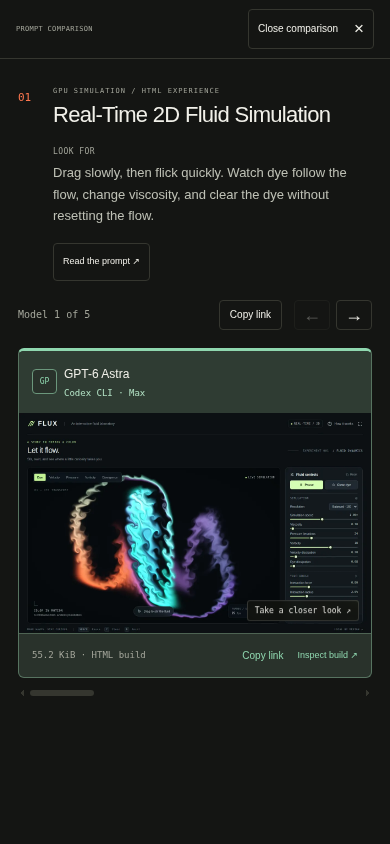
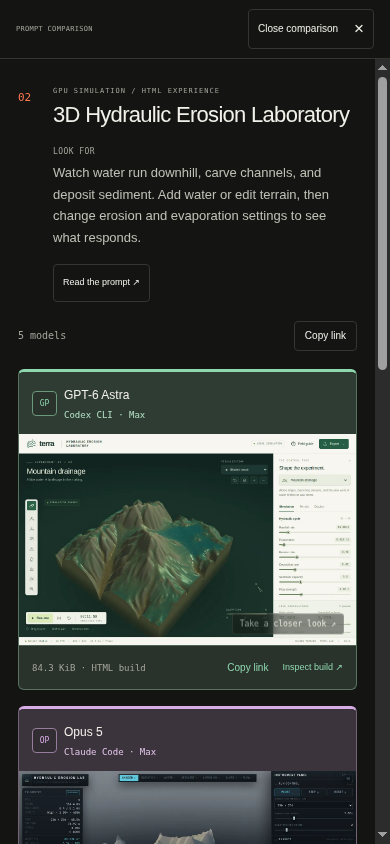
Show expanded comparisons as a wrapping model grid

diff --git a/gallery/static/app.js b/gallery/static/app.js
@@ -231,16 +231,15 @@
     if(!$('#category-viewer').open)return;
     const runs=(state.categoryAllModels?state.data.results:matchingRuns()).filter(row=>groupKey(row)===state.categoryTask);
     if(!runs.length){closeCategory();return;}
-    const previous=$('#category-content .prompt-group');const index=previous?comparisonPosition(previous).first:0;
+    const scrollTop=$('#category-content').scrollTop;
     $('#category-content').innerHTML=promptGroup(state.categoryTask,runs,true,state.categoryAllModels);
-    positionComparison($('#category-content .prompt-group'),index);
+    updateComparison($('#category-content .prompt-group'));$('#category-content').scrollTop=scrollTop;
   }
   function openCategory(key,trigger=null,allModels=false,updateUrl=true) {
     const runs=(allModels?state.data.results:matchingRuns()).filter(row=>groupKey(row)===key);if(!runs.length)return;
-    const index=trigger?comparisonPosition(trigger.closest('.prompt-group')).first:0;
     state.categoryTask=key;state.categoryTrigger=trigger;state.categoryAllModels=allModels;
     $('#category-content').innerHTML=promptGroup(key,runs,true,allModels);
-    $('#category-viewer').showModal();positionComparison($('#category-content .prompt-group'),index);
+    $('#category-viewer').showModal();$('#category-content').scrollTop=0;updateComparison($('#category-content .prompt-group'));
     if(updateUrl&&state.data.catalog.some(task=>task.id===key)&&location.hash!==comparisonHash(key))try{history.pushState(null,'',comparisonHash(key));}catch{ /* Copy link remains available in embedded browsers. */ }
     $('#close-category').focus();
   }
@@ -499,7 +498,7 @@
   $('#prompt-dialog').addEventListener('close',()=>{state.promptToken++;});
   $('#copy-prompt').addEventListener('click',copyPrompt);
   document.addEventListener('keydown',event=>{
-    if(event.target.matches('.group-builds')&&['ArrowLeft','ArrowRight','Home','End'].includes(event.key)){
+    if(event.target.matches('#cards .group-builds')&&['ArrowLeft','ArrowRight','Home','End'].includes(event.key)){
       event.preventDefault();const group=event.target.closest('.prompt-group');
       if(event.key==='Home'||event.key==='End')positionComparison(group,event.key==='Home'?0:Infinity);
       else shiftComparison(group,event.key==='ArrowRight'?1:-1);

diff --git a/gallery/static/styles.css b/gallery/static/styles.css
@@ -151,13 +151,16 @@ body[data-section="why"] .hero-copy>p{max-width:640px}
 .category-viewer{inset:0;margin:0;width:100vw;height:100dvh;max-width:none;max-height:none;padding:0;border:0;border-radius:0;overflow:hidden}.category-viewer[open]{display:flex;flex-direction:column}
 .category-bar{display:flex;justify-content:space-between;align-items:center;gap:14px;padding:10px 24px;border-bottom:1px solid var(--line);flex-shrink:0}.category-bar .button{font-size:11px;white-space:nowrap}.category-bar .button span{font-size:17px;margin-left:8px}
 .category-content{flex:1;min-height:0;overflow:auto;padding:0 clamp(18px,3vw,48px) 26px}.category-content .prompt-group{margin:0}.category-content .prompt-header{border-top:0;padding-top:28px}.category-content .prompt-header h3{font-size:clamp(22px,2.2vw,34px)}.category-content .prompt-guide{font-size:13px}.category-content .comparison-toolbar{margin-bottom:14px}
+.category-content .group-builds{grid-template-columns:repeat(3,minmax(0,1fr));grid-auto-flow:row;grid-auto-columns:auto;align-items:start;overflow:visible;scroll-snap-type:none}
 .brand{font-size:25px;min-width:0;flex-shrink:1}.brand>span{min-width:0}.brand-mark{flex-shrink:0}.brand-title{line-height:1.15}
 @media(max-width:1100px){
   .group-builds{--visible-models:min(var(--columns,1),2)}
+  .category-content .group-builds{grid-template-columns:repeat(2,minmax(0,1fr))}
   .masthead-inner{flex-wrap:wrap;padding-top:18px;gap:0}.masthead nav{order:3;width:100%;margin:12px 0 0;height:47px;justify-content:space-between}.repo-link{order:2;margin-left:auto}.brand{margin-right:16px}
 }
 @media(max-width:580px){
   .group-builds{--visible-models:1;--comparison-gap:16px}.prompt-header-actions{margin-left:35px}.prompt-header-actions .button{font-size:9px;padding:6px 9px}
+  .category-content .group-builds{grid-template-columns:minmax(0,1fr)}
   .category-bar{padding:9px 16px}.category-bar .eyebrow{font-size:7px;letter-spacing:.3px}.category-bar .button{font-size:10px;padding:6px 9px}.category-content{padding:0 18px 20px}
   .brand{font-size:20px;max-width:calc(100% - 85px)}.brand-title{line-height:1.15}.brand-subtitle{margin-top:5px}
 }

diff --git a/tests/test_browser_single.py b/tests/test_browser_single.py
@@ -124,6 +124,27 @@ class BrowserTests(BrowserEnvironment):
         (expect(previous).to_be_disabled if first == 1 else expect(previous).to_be_enabled)()
         (expect(following).to_be_disabled if last == total else expect(following).to_be_enabled)()
 
+    def assert_comparison_grid(self, group, columns, total):
+        from playwright.sync_api import expect
+        expect(group.locator('.comparison-range')).to_have_text(f"{total} {'model' if total == 1 else 'models'}")
+        expect(group.locator('.model-navigation')).to_be_hidden()
+        geometry = group.locator('.group-builds').evaluate('''node => {
+            const area=node.getBoundingClientRect();
+            const cards=[...node.children].map(child=>child.getBoundingClientRect());
+            const rows=[];
+            for(const card of cards){
+                const row=rows.find(row=>Math.abs(row.top-card.top)<2);
+                if(row)row.count++;else rows.push({top:card.top,count:1});
+            }
+            return {rows:rows.map(row=>row.count),
+                contained:cards.every(card=>card.left>=area.left-1&&card.right<=area.right+1),
+                scrolling:node.scrollWidth>node.clientWidth+1, left:node.scrollLeft};
+        }''')
+        self.assertEqual(geometry['rows'], [min(columns, total-start) for start in range(0, total, columns)])
+        self.assertTrue(geometry['contained'])
+        self.assertFalse(geometry['scrolling'])
+        self.assertEqual(geometry['left'], 0)
+
     def test_comparison_pages_five_models_one_column_at_responsive_breakpoints(self):
         from playwright.sync_api import expect
         keys = self.comparison_fixture()
@@ -148,6 +169,9 @@ class BrowserTests(BrowserEnvironment):
                 self.assertTrue(geometry['sameRow'])
                 self.assertTrue(geometry['scrolling'])
                 self.assertTrue(self.page.evaluate('document.documentElement.scrollWidth<=innerWidth'))
+                group.locator('[data-expand-task]').click()
+                self.assert_comparison_grid(self.page.locator('#category-content .prompt-group'), visible, 5)
+                self.page.locator('#close-category').click()
                 for first in range(2, 7-visible):
                     group.locator('[data-shift-models="1"]').click()
                     self.assert_comparison_range(group, first, first+visible-1, 5)
@@ -156,7 +180,7 @@ class BrowserTests(BrowserEnvironment):
                     self.assert_comparison_range(group, first, first+visible-1, 5)
         self.assertEqual(self.errors, [])
 
-    def test_comparison_native_mobile_scroll_updates_ranges_and_expansion_position(self):
+    def test_comparison_mobile_carousel_expands_to_a_vertical_grid(self):
         from playwright.sync_api import expect
         self.comparison_fixture()
         self.page.set_viewport_size({'width': 390, 'height': 844})
@@ -180,10 +204,13 @@ class BrowserTests(BrowserEnvironment):
         category = self.page.locator('#category-viewer')
         expect(category).to_be_visible()
         expanded = category.locator('.prompt-group')
-        self.assert_comparison_range(expanded, 3, 3, 5)
+        self.assert_comparison_grid(expanded, 1, 5)
         self.assertTrue(category.evaluate('node=>node.scrollWidth<=innerWidth'))
-        expanded.locator('[data-shift-models="1"]').click()
-        self.assert_comparison_range(expanded, 4, 4, 5)
+        expanded.locator('.group-builds').focus()
+        self.page.keyboard.press('End')
+        expect(expanded.locator('.model-column').last).to_be_in_viewport()
+        self.assertGreater(self.page.locator('#category-content').evaluate('node=>node.scrollTop'), 0)
+        self.assert_comparison_grid(expanded, 1, 5)
         self.assert_comparison_range(group, 3, 3, 5)
         self.page.locator('#close-category').click()
         expect(category).not_to_be_visible()
@@ -222,9 +249,8 @@ class BrowserTests(BrowserEnvironment):
         expect(self.page.locator('#cards .prompt-group')).to_have_count(2)
         self.assertTrue(original_card.evaluate('node=>node.isConnected'))
         expanded = category.locator('.prompt-group')
-        self.assert_comparison_range(expanded, 2, 4, 5)
-        expanded.locator('[data-shift-models="1"]').click()
-        self.assert_comparison_range(expanded, 3, 5, 5)
+        self.assert_comparison_grid(expanded, 3, 5)
+        expanded.locator('.model-column').last.scroll_into_view_if_needed()
         self.assertAlmostEqual(group.locator('.group-builds').evaluate('node=>node.scrollLeft'), position, delta=2)
         self.page.locator('#close-category').click()
         expect(category).not_to_be_visible()
@@ -255,10 +281,10 @@ class BrowserTests(BrowserEnvironment):
         self.page.keyboard.press('Escape')
         expect(self.page.locator('#viewer')).not_to_be_visible()
         expect(category).to_be_visible()
-        category.locator('.card-open').first.click()
+        category.locator('.card-open').last.click()
         self.page.locator('#launch-preview').click()
         frame = self.page.frame_locator('#artifact-frame')
-        expect(frame.locator('#build-model')).to_have_text(keys[0])
+        expect(frame.locator('#build-model')).to_have_text(keys[-1])
         frame.locator('#increment').click()
         expect(frame.locator('#increment')).to_have_text('Count: 1')
         previous_frame = self.page.locator('#artifact-frame').element_handle()
@@ -315,7 +341,7 @@ class BrowserTests(BrowserEnvironment):
         unknown.locator('[data-expand-task]').click()
         expect(category.locator('.model-column')).to_have_count(1)
         expect(category.locator('.run-card')).to_have_count(1)
-        self.assert_comparison_range(category.locator('.prompt-group'), 1, 1, 1)
+        self.assert_comparison_grid(category.locator('.prompt-group'), 3, 1)
         self.page.evaluate("location.hash='why'")
         expect(category).not_to_be_visible()
         expect(self.page.locator('#view-why')).to_be_visible()

diff --git a/docs/results.md b/docs/results.md
@@ -144,7 +144,7 @@ The local gallery, a separate port, and an iframe do not provide security isolat
 
 Each prompt keeps models in the configured order, with three columns above 1100 pixels, two from 581–1100 pixels, and one at 580 pixels or below. The arrows move one model at a time; the range label shows your position in the full lineup. Native horizontal scrolling and touch swipes work too. Focus the comparison row to use Left/Right or Home/End. Missing submissions retain their labeled place, and repeated attempts stay together in one model column.
 
-Choose **Expand** to focus on one prompt in a full-screen comparison. It starts at the model position you were viewing, and its arrows work independently of the main page. Read the prompt, inspect builds, open live apps, or copy implementation links from there. Closing a nested viewer returns to the comparison; closing the comparison restores the main page's filters, position, and focus. Shared implementation URLs continue to open the selected app directly.
+Choose **Expand** to see every entry for one prompt in a full-screen grid. Models flow into as many rows as needed, with three columns on desktop, two from 581–1100 pixels, and one on mobile. Scroll vertically to reach later rows; the expanded view has no horizontal paging. Read the prompt, inspect builds, open live apps, or copy implementation links from there. Closing a nested viewer returns to the comparison; closing the comparison restores the main page's filters, position, and focus. Shared implementation URLs continue to open the selected app directly.
 
 **Copy link** beside a prompt's model arrows shares the whole comparison. The same control is available inside the expanded view. Public links use `/compare/<task-id>/`, with an initial link-preview document and a compact image composed from up to three models' existing screenshots. Opening the link enters `/#compare/<task-id>` and includes all models for that prompt, independent of saved filters. Local links use the hash route directly. Closing the comparison clears that route; closing an app above it returns to the comparison.
 

diff --git a/docs/VERIFICATION.md b/docs/VERIFICATION.md
@@ -2,6 +2,14 @@
 
 These checks validate the package and gallery, not implementations or model performance on the thirty challenges.
 
+## Expanded category grid: 2026-09-07
+
+Expanded categories now show every model entry in a wrapping grid: three columns above 1100 pixels, two from 581–1100, and one at 580 or below. Later models occupy additional rows reached by vertical scrolling. The expanded view shows a total model count and Copy link; the main showcase retains horizontal paging. Opening an expanded category starts at the top, and closing it preserves the main gallery's filters, carousel position, and focus.
+
+All **28 browser checks passed**: 26 core checks and the two bridge presentation checks, enabled in separate runs. Updated assertions verify row geometry and no horizontal scrolling at six widths, native End navigation to the final mobile entry, opening an app from the second row, and unchanged nested-viewer and sharing behavior. JavaScript syntax and whitespace checks passed. The [desktop](prompt-comparison-preview.png) and [mobile](prompt-comparison-mobile.png) comparison images show the new layout.
+
+Production deployment **`6a9f305139b5a6cbb1fe169b`** publishes **180 files totaling 5,613,113 bytes (5.35 MiB)**. Published JavaScript and CSS match the verified build byte-for-byte. Live browser checks confirm the hydraulic-erosion category displays five models as **3 + 2** on desktop and five vertically scrollable entries on mobile, with no horizontal overflow and the correct Copy link URL.
+
 ## Five-model comparisons and category sharing: 2026-09-07
 
 The collection now contains **30 HTML builds across nine prompts and five models**, ordered **GPT-6 Astra, Opus 5, Grok 4.6, GLM 5.3 Flash, Gemini 3.8 Flash**. The new profiles record **Claude Code / Max** for Opus and **Pi / High** for GLM. Their five top-level screenshots are exact copies of supplied final evidence images; the original HTML and evidence files remain unchanged. The masthead and README now give *a Vibe Benchmark* the same font size as Trial, with a smaller **by Pyro** line and no parentheses.

diff --git a/README.md b/README.md
@@ -53,7 +53,7 @@ Keep the benchmarks. Get your hands on the work.
 
 ## What you can do
 
-- **Compare the same brief.** Browse three models side by side on desktop, two on smaller screens, or one on mobile. Use the arrows or swipe through the model lineup. **Expand** gives one prompt the whole screen, with its Look for hints and builds together. Filter by model, task, track, status, or text.
+- **Compare the same brief.** Browse three models side by side on desktop, two on smaller screens, or one on mobile. Use the arrows or swipe through the model lineup. **Expand** shows every entry in a grid with as many rows as needed: three columns on desktop, two on smaller screens, and one on mobile, with Look for hints above. Filter by model, task, track, status, or text.
 - **Try the output.** Run live HTML builds across the full viewport, or choose desktop, tablet, and mobile sizes. Switch models without leaving the prompt, and open **Look for** when you want a few useful things to try. Download the source to inspect it yourself.
 - **Share a build or a whole comparison.** Choose **Copy link** on a card to share its maximized app, or beside a prompt to share the expanded comparison. Category links open all models for that prompt and carry their own title and screenshot preview; individual build links keep their model-specific previews.
 - **Run any of the 30 prompts.** Read and copy the complete task, including validation checks and delivery requirements, from the prompt library.
